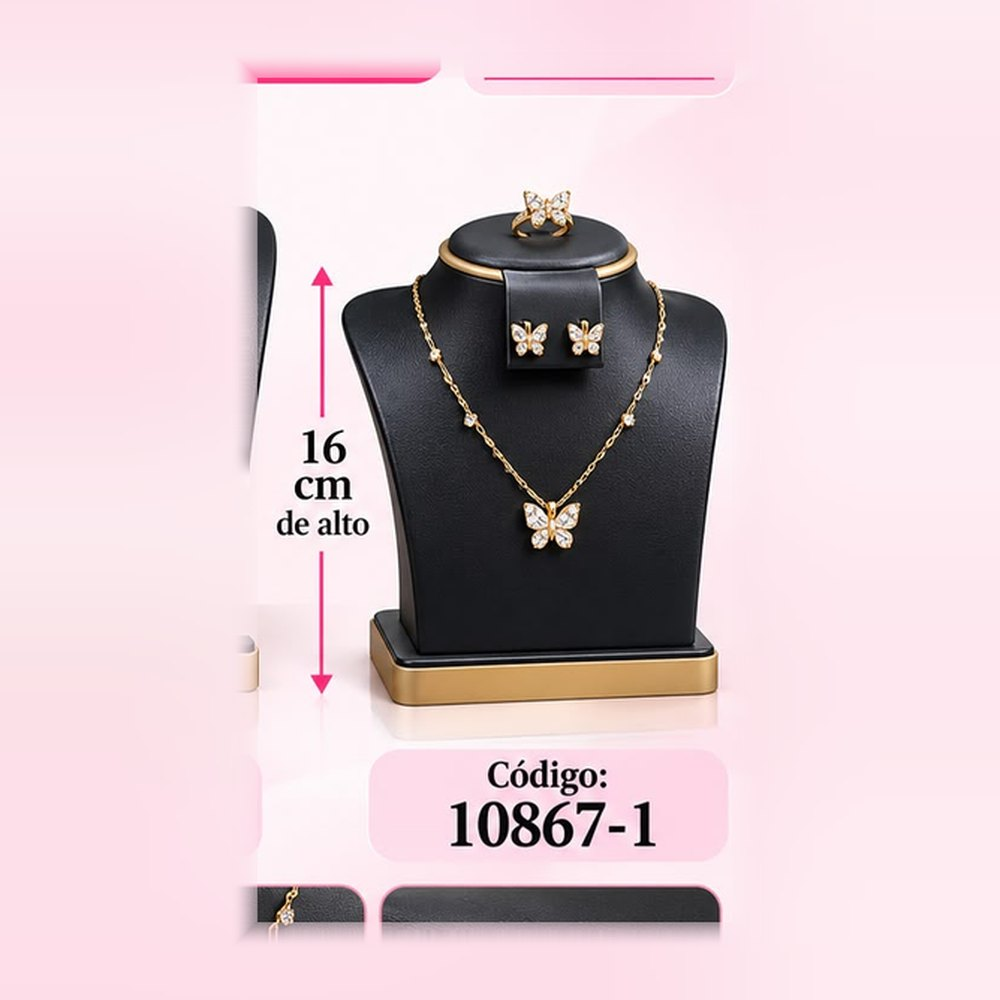
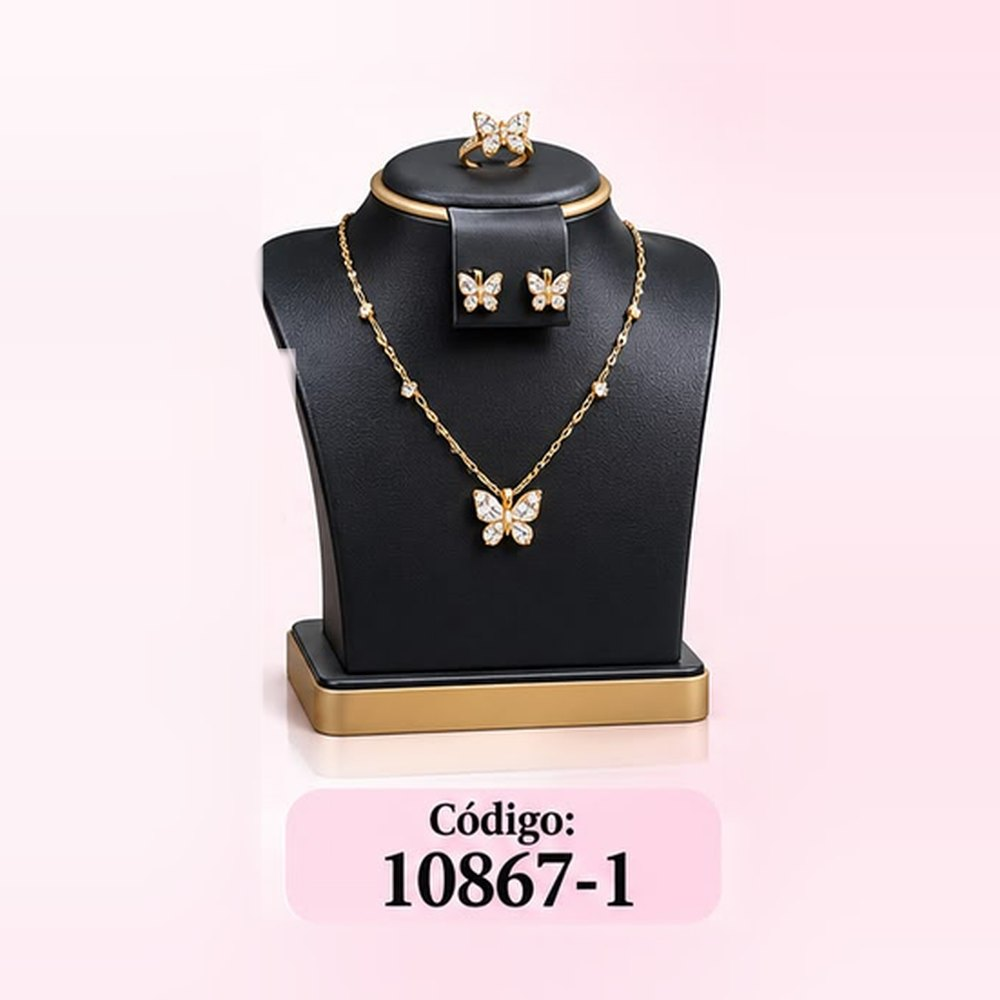
Fotos de DA-10867 sin restos de medidas ni del recorte

Changed region(s): [[0.217, 0.062, 0.744, 0.961], [0.217, 0.031, 0.434, 0.093]]

diff --git a/sw.js b/sw.js
@@ -1,5 +1,5 @@
 /* Anamile: caché para que el sitio abra rápido y funcione con mala señal. */
-const V='anamile-v11',IMG='anamile-img-v16',CORE=['./','index.html','estilos.css?v=11','productos.js?v=10','logo-sm.png','logo-anamile.png','favicon.svg'];
+const V='anamile-v11',IMG='anamile-img-v17',CORE=['./','index.html','estilos.css?v=11','productos.js?v=10','logo-sm.png','logo-anamile.png','favicon.svg'];
 self.addEventListener('install',e=>{e.waitUntil(caches.open(V).then(c=>Promise.allSettled(CORE.map(u=>c.add(u)))).then(()=>self.skipWaiting()))});
 self.addEventListener('activate',e=>{e.waitUntil(caches.keys().then(ks=>Promise.all(ks.filter(k=>k!==V&&k!==IMG).map(k=>caches.delete(k)))).then(()=>self.clients.claim()))});
 self.addEventListener('fetch',e=>{const r=e.request;if(r.method!=='GET')return;const u=new URL(r.url);if(u.origin!==location.origin)return;
